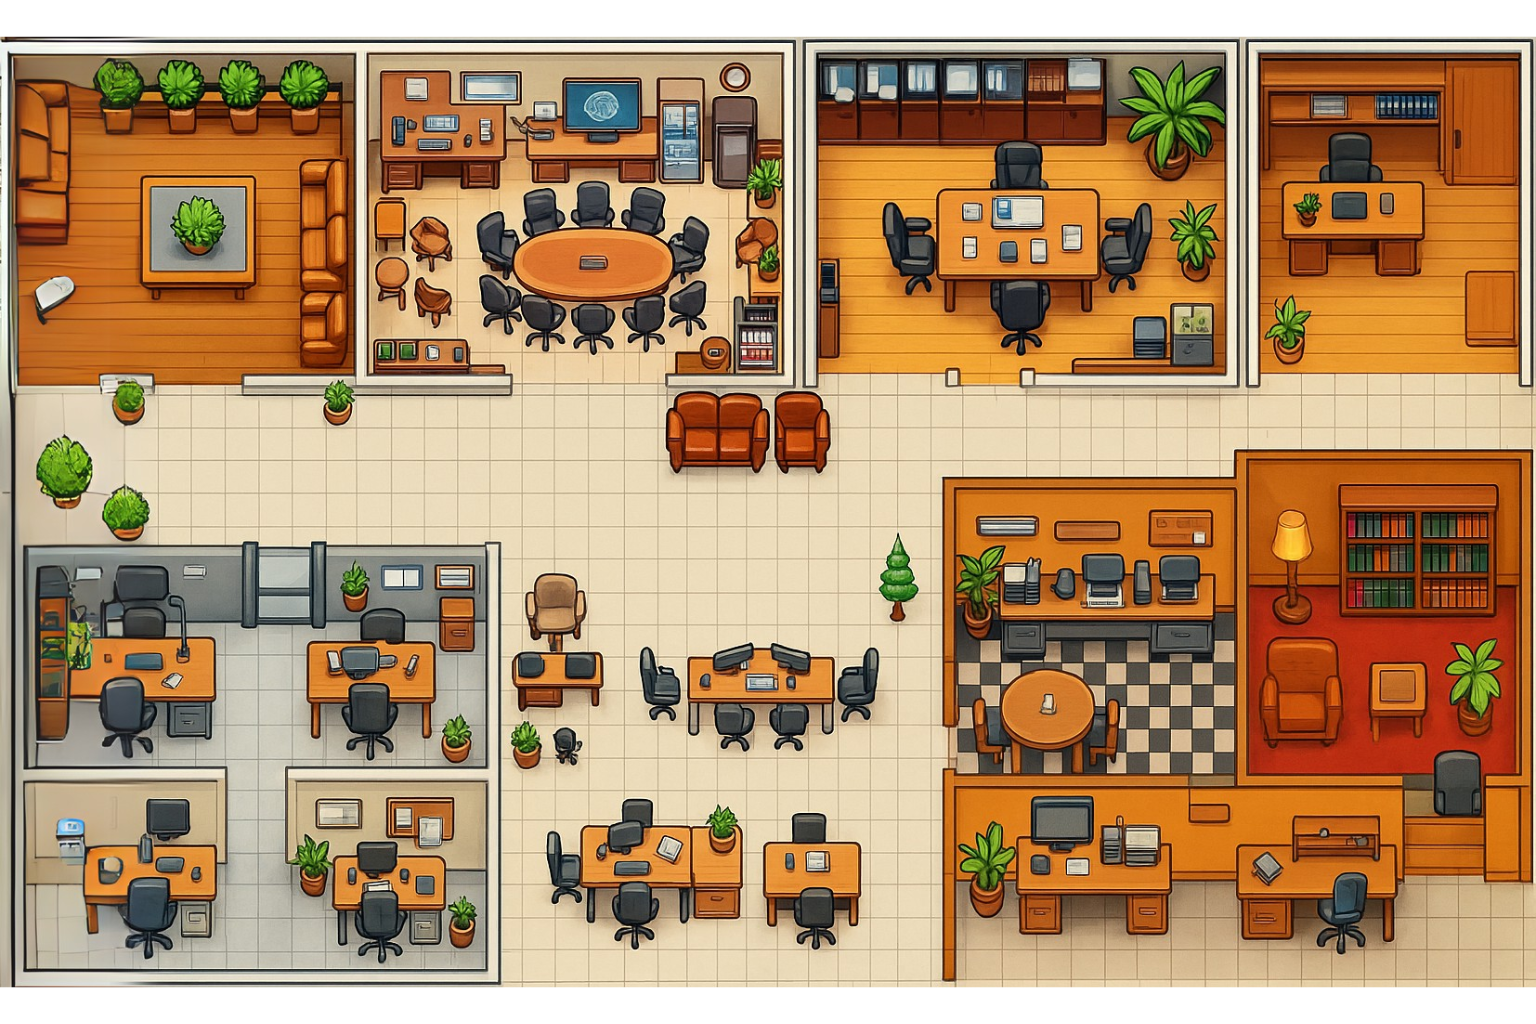
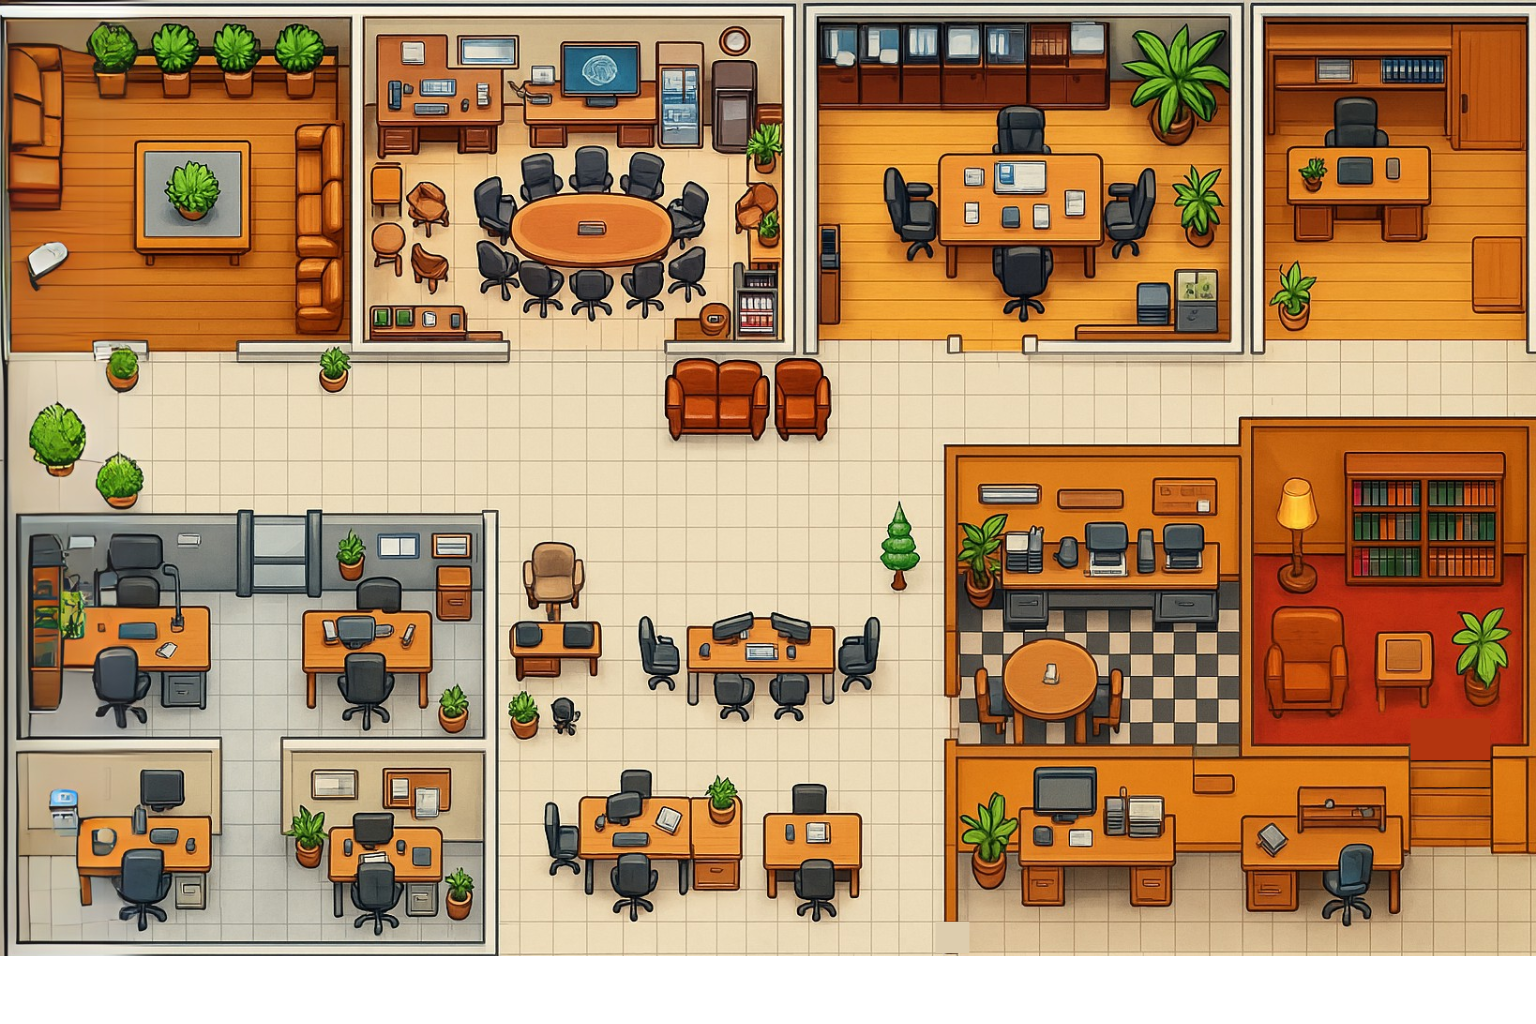
added the interaction hint

diff --git a/frontend/src/utils/collisions.js b/frontend/src/utils/collisions.js
@@ -1,27 +1,92 @@
-
 const collisions = [
-  [1, 1, 1, 1, 1, 1, 1, 1, 1, 1, 1, 1, 1, 1, 1, 1, 1, 1, 1, 1, 1, 1, 1, 1, 1, 1, 1, 1, 1, 1, 1, 1, 1, 1, 1, 1, 1, 1, 1, 1, 1, 1, 1, 1, 1, 1, 1, 1],
-  [1, 0, 0, 0, 0, 0, 0, 0, 0, 0, 0, 1, 2, 2, 2, 2, 2, 2, 2, 2, 2, 2, 2, 2, 1, 1, 0, 0, 0, 0, 0, 0, 0, 0, 0, 0, 1, 1, 1, 1, 0, 0, 0, 0, 0, 0, 0, 1],
-  [1, 0, 0, 0, 0, 0, 0, 0, 0, 0, 0, 1, 2, 2, 2, 2, 2, 2, 2, 2, 2, 2, 2, 2, 1, 1, 0, 0, 0, 0, 0, 0, 0, 0, 0, 0, 1, 1, 1, 1, 0, 0, 0, 0, 0, 0, 0, 1],
-  [1, 0, 0, 0, 0, 0, 0, 0, 0, 0, 0, 1, 2, 2, 2, 2, 2, 2, 2, 2, 2, 2, 2, 2, 1, 1, 0, 0, 0, 0, 0, 0, 0, 0, 0, 0, 0, 0, 0, 1, 0, 0, 0, 0, 0, 0, 0, 1],
-  [1, 0, 0, 0, 1, 1, 1, 0, 0, 0, 0, 1, 2, 2, 2, 2, 2, 2, 2, 2, 2, 2, 2, 2, 1, 1, 0, 0, 0, 0, 1, 1, 1, 1, 0, 0, 0, 0, 0, 1, 1, 1, 1, 1, 0, 0, 0, 1],
-  [1, 0, 0, 0, 1, 1, 1, 0, 0, 0, 0, 1, 2, 2, 2, 2, 2, 2, 2, 2, 2, 2, 2, 2, 1, 1, 0, 0, 0, 0, 1, 1, 1, 1, 0, 0, 0, 0, 0, 1, 1, 1, 1, 1, 0, 0, 0, 1],
-  [1, 0, 0, 0, 0, 0, 0, 0, 0, 0, 0, 1, 2, 2, 2, 2, 2, 2, 2, 2, 2, 2, 2, 2, 1, 1, 0, 0, 0, 0, 0, 0, 0, 0, 0, 0, 0, 0, 0, 1, 0, 0, 0, 0, 0, 0, 0, 1],
-  [1, 0, 0, 0, 0, 0, 0, 0, 0, 0, 0, 1, 2, 2, 2, 2, 2, 2, 2, 2, 2, 2, 2, 2, 1, 1, 0, 0, 0, 0, 0, 0, 0, 1, 1, 1, 1, 1, 1, 1, 0, 0, 0, 0, 0, 0, 0, 1],
-  [1, 1, 1, 1, 0, 0, 0, 0, 1, 1, 1, 1, 1, 1, 1, 0, 0, 0, 0, 0, 0, 1, 1, 1, 1, 1, 0, 0, 0, 0, 0, 0, 0, 0, 0, 0, 0, 0, 0, 0, 0, 0, 0, 0, 0, 0, 0, 1],
-  [1, 0, 0, 0, 0, 0, 0, 0, 0, 0, 0, 0, 0, 0, 0, 0, 0, 0, 0, 0, 0, 0, 0, 0, 0, 0, 0, 0, 0, 0, 0, 0, 0, 0, 0, 0, 0, 0, 0, 0, 0, 0, 0, 0, 0, 0, 0, 1],
-  [1, 0, 0, 0, 0, 0, 0, 0, 0, 0, 0, 0, 0, 0, 0, 0, 0, 0, 0, 0, 0, 0, 0, 0, 0, 0, 0, 0, 0, 0, 0, 0, 0, 0, 0, 0, 0, 0, 0, 0, 1, 1, 1, 1, 1, 1, 1, 1],
-  [1, 0, 0, 1, 0, 0, 0, 0, 0, 0, 0, 0, 0, 0, 0, 0, 0, 0, 0, 0, 0, 0, 0, 0, 0, 0, 0, 0, 0, 1, 1, 1, 1, 1, 1, 1, 1, 1, 1, 1, 1, 1, 1, 1, 1, 1, 1, 1],
-  [1, 1, 1, 1, 1, 1, 0, 0, 0, 0, 1, 1, 1, 1, 1, 1, 0, 0, 0, 0, 0, 0, 0, 0, 0, 0, 0, 0, 0, 1, 0, 0, 0, 0, 0, 0, 0, 0, 0, 1, 0, 0, 0, 0, 0, 0, 0, 1],
-  [1, 0, 0, 0, 0, 0, 0, 0, 0, 0, 0, 0, 0, 0, 0, 1, 0, 0, 0, 0, 0, 0, 0, 0, 0, 0, 0, 0, 0, 1, 0, 0, 0, 0, 0, 0, 0, 0, 0, 1, 0, 0, 0, 0, 0, 0, 0, 1],
-  [1, 0, 0, 0, 0, 0, 0, 0, 0, 0, 0, 1, 1, 1, 0, 1, 0, 0, 0, 0, 0, 0, 0, 0, 0, 0, 0, 0, 0, 1, 0, 0, 0, 0, 0, 0, 0, 0, 0, 1, 0, 0, 0, 0, 0, 0, 0, 1],
-  [1, 0, 0, 1, 1, 1, 0, 0, 0, 0, 0, 0, 0, 0, 0, 1, 1, 1, 0, 0, 0, 0, 1, 1, 1, 1, 0, 0, 0, 0, 0, 0, 0, 0, 0, 0, 0, 0, 0, 1, 0, 0, 0, 1, 1, 0, 0, 1],
-  [1, 0, 0, 0, 0, 0, 0, 0, 0, 0, 0, 0, 0, 0, 0, 1, 0, 0, 0, 0, 0, 0, 0, 0, 0, 0, 0, 0, 0, 0, 0, 0, 0, 0, 0, 0, 0, 0, 0, 1, 0, 0, 0, 0, 0, 0, 0, 1],
-  [1, 1, 1, 1, 1, 1, 0, 0, 0, 0, 1, 1, 1, 1, 1, 1, 0, 0, 0, 0, 0, 0, 0, 0, 0, 0, 0, 0, 0, 0, 0, 1, 1, 1, 1, 1, 1, 1, 1, 1, 1, 1, 1, 0, 0, 0, 0, 1],
-  [1, 0, 0, 0, 0, 0, 0, 0, 0, 0, 0, 0, 0, 0, 0, 1, 0, 0, 0, 0, 0, 0, 0, 0, 0, 0, 0, 0, 0, 0, 0, 0, 0, 0, 0, 0, 0, 0, 0, 0, 0, 0, 0, 0, 0, 0, 0, 1],
-  [1, 0, 0, 1, 1, 1, 0, 0, 0, 0, 0, 1, 1, 1, 0, 1, 0, 0, 1, 1, 1, 1, 1, 0, 0, 1, 1, 0, 0, 0, 0, 0, 0, 0, 0, 0, 0, 0, 0, 0, 0, 0, 0, 0, 0, 0, 0, 1],
-  [1, 0, 0, 0, 0, 0, 0, 0, 0, 0, 0, 0, 0, 0, 0, 1, 0, 0, 0, 0, 0, 0, 0, 0, 0, 0, 0, 0, 0, 0, 0, 0, 0, 0, 0, 0, 0, 0, 0, 0, 0, 0, 0, 0, 0, 0, 0, 1],
-  [1, 1, 1, 1, 1, 1, 1, 1, 1, 1, 1, 1, 1, 1, 1, 1, 1, 1, 1, 1, 1, 1, 1, 1, 1, 1, 1, 1, 1, 1, 1, 1, 1, 1, 1, 1, 1, 1, 1, 1, 1, 1, 1, 1, 1, 1, 1, 1],
+  [
+    1, 1, 1, 1, 1, 1, 1, 1, 1, 1, 1, 1, 1, 1, 1, 1, 1, 1, 1, 1, 1, 1, 1, 1, 1,
+    1, 1, 1, 1, 1, 1, 1, 1, 1, 1, 1, 1, 1, 1, 1, 1, 1, 1, 1, 1, 1, 1, 1,
+  ],
+  [
+    1, 0, 0, 0, 0, 0, 0, 0, 0, 0, 0, 1, 2, 2, 2, 2, 2, 2, 2, 2, 2, 2, 2, 2, 1,
+    1, 0, 0, 0, 0, 0, 0, 0, 0, 0, 0, 1, 1, 1, 1, 0, 0, 0, 0, 0, 0, 0, 1,
+  ],
+  [
+    1, 0, 0, 0, 0, 0, 0, 0, 0, 0, 0, 1, 2, 2, 2, 2, 2, 2, 2, 2, 2, 2, 2, 2, 1,
+    1, 0, 0, 0, 0, 0, 0, 0, 0, 0, 0, 1, 1, 1, 1, 0, 0, 0, 0, 0, 0, 0, 1,
+  ],
+  [
+    1, 0, 0, 0, 0, 0, 0, 0, 0, 0, 0, 1, 2, 2, 2, 2, 2, 2, 2, 2, 2, 2, 2, 2, 1,
+    1, 0, 0, 0, 0, 0, 0, 0, 0, 0, 0, 0, 0, 0, 1, 0, 0, 0, 0, 0, 0, 0, 1,
+  ],
+  [
+    1, 0, 0, 0, 1, 1, 1, 0, 0, 0, 0, 1, 2, 2, 2, 2, 2, 2, 2, 2, 2, 2, 2, 2, 1,
+    1, 0, 0, 0, 0, 1, 1, 1, 1, 0, 0, 0, 0, 0, 1, 1, 1, 1, 1, 0, 0, 0, 1,
+  ],
+  [
+    1, 0, 0, 0, 1, 1, 1, 0, 0, 0, 0, 1, 2, 2, 2, 2, 2, 2, 2, 2, 2, 2, 2, 2, 1,
+    1, 0, 0, 0, 0, 1, 1, 1, 1, 0, 0, 0, 0, 0, 1, 1, 1, 1, 1, 0, 0, 0, 1,
+  ],
+  [
+    1, 0, 0, 0, 0, 0, 0, 0, 0, 0, 0, 1, 2, 2, 2, 2, 2, 2, 2, 2, 2, 2, 2, 2, 1,
+    1, 0, 0, 0, 0, 0, 0, 0, 0, 0, 0, 0, 0, 0, 1, 0, 0, 0, 0, 0, 0, 0, 1,
+  ],
+  [
+    1, 0, 0, 0, 0, 0, 0, 0, 0, 0, 0, 1, 2, 2, 2, 2, 2, 2, 2, 2, 2, 2, 2, 2, 1,
+    1, 0, 0, 0, 0, 0, 0, 0, 1, 1, 1, 1, 1, 1, 1, 0, 0, 0, 0, 0, 0, 0, 1,
+  ],
+  [
+    1, 1, 1, 1, 0, 0, 0, 0, 1, 1, 1, 1, 1, 1, 1, 0, 0, 0, 0, 0, 0, 1, 1, 1, 1,
+    1, 0, 0, 0, 0, 0, 0, 0, 0, 0, 0, 0, 0, 0, 0, 0, 0, 0, 0, 0, 0, 0, 1,
+  ],
+  [
+    1, 0, 0, 0, 0, 0, 0, 0, 0, 0, 0, 0, 0, 0, 0, 0, 0, 0, 0, 0, 0, 0, 0, 0, 0,
+    0, 0, 0, 0, 0, 0, 0, 0, 0, 0, 0, 0, 0, 0, 0, 0, 0, 0, 0, 0, 0, 0, 1,
+  ],
+  [
+    1, 0, 0, 0, 0, 0, 0, 0, 0, 0, 0, 0, 0, 0, 0, 0, 0, 0, 0, 0, 0, 0, 0, 0, 0,
+    0, 0, 0, 0, 0, 0, 0, 0, 0, 0, 0, 0, 0, 0, 0, 1, 1, 1, 1, 1, 1, 1, 1,
+  ],
+  [
+    1, 0, 0, 1, 0, 0, 0, 0, 0, 0, 0, 0, 0, 0, 0, 0, 0, 0, 0, 0, 0, 0, 0, 0, 0,
+    0, 0, 0, 0, 1, 1, 1, 1, 1, 1, 1, 1, 1, 1, 1, 1, 1, 1, 1, 1, 1, 1, 1,
+  ],
+  [
+    1, 1, 1, 1, 1, 1, 0, 0, 0, 0, 1, 1, 1, 1, 1, 1, 0, 0, 0, 0, 0, 0, 0, 0, 0,
+    0, 0, 0, 0, 1, 0, 0, 0, 0, 0, 0, 0, 0, 0, 1, 0, 0, 0, 0, 0, 0, 0, 1,
+  ],
+  [
+    1, 0, 0, 0, 0, 0, 0, 0, 0, 0, 0, 0, 0, 0, 0, 1, 0, 0, 0, 0, 0, 0, 0, 0, 0,
+    0, 0, 0, 0, 1, 0, 0, 0, 0, 0, 0, 0, 0, 0, 1, 0, 0, 0, 0, 0, 0, 0, 1,
+  ],
+  [
+    1, 0, 0, 0, 0, 0, 0, 0, 0, 0, 0, 1, 1, 1, 0, 1, 0, 0, 0, 0, 0, 0, 0, 0, 0,
+    0, 0, 0, 0, 1, 0, 0, 0, 0, 0, 0, 0, 0, 0, 1, 0, 0, 0, 0, 0, 0, 0, 1,
+  ],
+  [
+    1, 0, 0, 1, 1, 1, 0, 0, 0, 0, 0, 0, 0, 0, 0, 1, 1, 1, 0, 0, 0, 0, 1, 1, 1,
+    1, 0, 0, 0, 0, 0, 0, 0, 0, 0, 0, 0, 0, 0, 1, 0, 0, 0, 1, 1, 0, 0, 1,
+  ],
+  [
+    1, 0, 0, 0, 0, 0, 0, 0, 0, 0, 0, 0, 0, 0, 0, 1, 0, 0, 0, 0, 0, 0, 0, 0, 0,
+    0, 0, 0, 0, 0, 0, 0, 0, 0, 0, 0, 0, 0, 0, 1, 0, 0, 0, 0, 0, 0, 0, 1,
+  ],
+  [
+    1, 1, 1, 1, 1, 1, 0, 0, 0, 0, 1, 1, 1, 1, 1, 1, 0, 0, 0, 0, 0, 0, 0, 0, 0,
+    0, 0, 0, 0, 0, 0, 1, 1, 1, 1, 1, 1, 1, 1, 1, 1, 1, 1, 0, 0, 0, 0, 1,
+  ],
+  [
+    1, 0, 0, 0, 0, 0, 0, 0, 0, 0, 0, 0, 0, 0, 0, 1, 0, 0, 0, 0, 0, 0, 0, 0, 0,
+    0, 0, 0, 0, 0, 0, 0, 0, 0, 0, 0, 0, 0, 0, 0, 0, 0, 0, 0, 0, 0, 0, 1,
+  ],
+  [
+    1, 0, 0, 1, 1, 1, 0, 0, 0, 0, 0, 1, 1, 1, 0, 1, 0, 0, 1, 1, 1, 1, 1, 0, 0,
+    1, 1, 0, 0, 0, 0, 0, 0, 0, 0, 0, 0, 0, 0, 0, 0, 0, 0, 0, 0, 0, 0, 1,
+  ],
+  [
+    1, 1, 1, 1, 1, 1, 1, 1, 1, 1, 1, 1, 1, 1, 1, 1, 1, 1, 1, 1, 1, 1, 1, 1, 1,
+    1, 1, 1, 1, 1, 1, 1, 1, 1, 1, 1, 1, 1, 1, 1, 1, 1, 1, 1, 1, 1, 1, 1,
+  ],
+  [
+    1, 1, 1, 1, 1, 1, 1, 1, 1, 1, 1, 1, 1, 1, 1, 1, 1, 1, 1, 1, 1, 1, 1, 1, 1,
+    1, 1, 1, 1, 1, 1, 1, 1, 1, 1, 1, 1, 1, 1, 1, 1, 1, 1, 1, 1, 1, 1, 1,
+  ],
 ];
 
 export default collisions;

diff --git a/frontend/src/components/Game/Canvas.js b/frontend/src/components/Game/Canvas.js
@@ -803,7 +803,35 @@ const Canvas = () => {
         </div>
       </div>
       <div style={{ position: "relative" }}>
-        <canvas ref={canvasRef} width={1550} height={700} />
+        <canvas ref={canvasRef} width={1550} height={650} />
+        <div
+          style={{
+            marginTop: "5px",
+            textAlign: "center",
+            fontSize: "16px",
+            color: "#f8fafc",
+            fontFamily: "'Press Start 2P', 'VT323', 'monospace', monospace",
+            letterSpacing: "1px",
+            background: "linear-gradient(90deg, #23272e 0%, #3a3f4b 100%)",
+            borderRadius: "10px",
+            padding: "8px 0",
+            width: "100%",
+            maxWidth: 1550,
+            marginLeft: "auto",
+            marginRight: "auto",
+            boxShadow: "0 2px 12px #4a6cf755",
+            border: "2px solid #4a6cf7",
+            zIndex: 1000,
+            fontWeight: "bold",
+            textShadow: "0 2px 8px #2228",
+          }}
+        >
+          Press{" "}
+          <span style={{ fontWeight: "bold", color: "#ffe066" }}>"E"</span> key
+          when you are near a player to interact with them. Use Arrow keys to
+          move your player
+        </div>
+
         <button
           className="chat-button"
           onClick={() => setShowChat(!showChat)}
